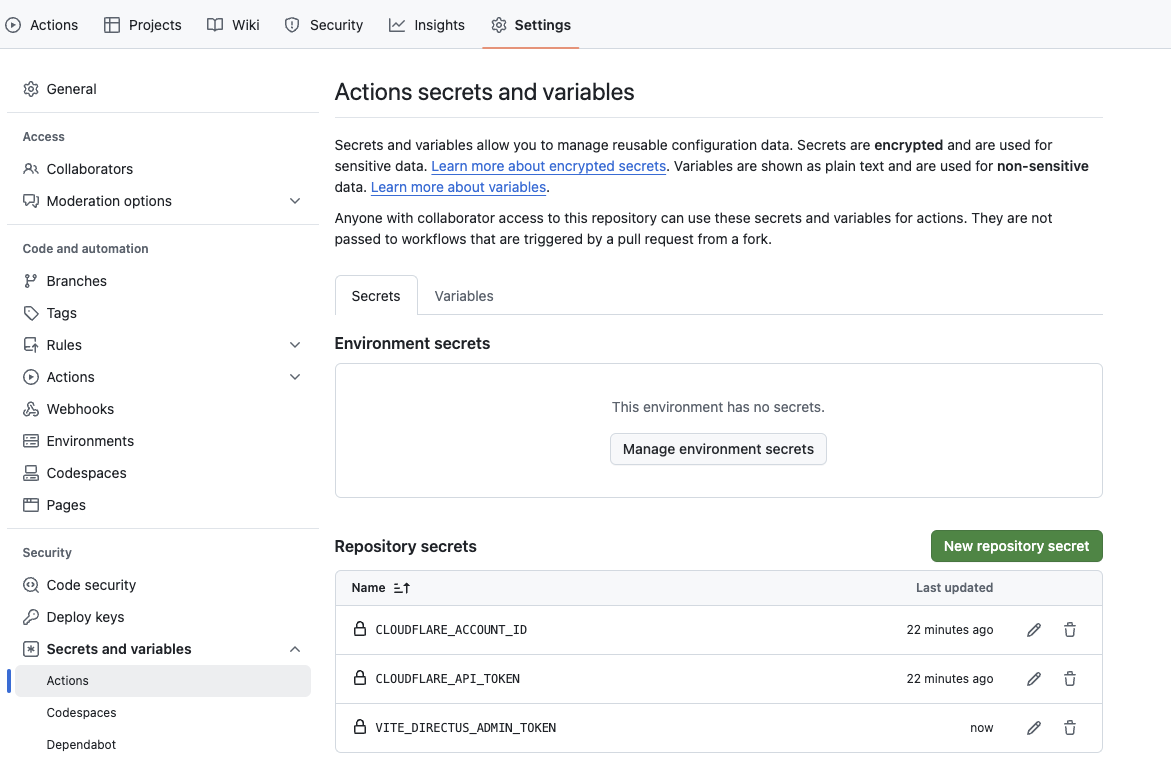
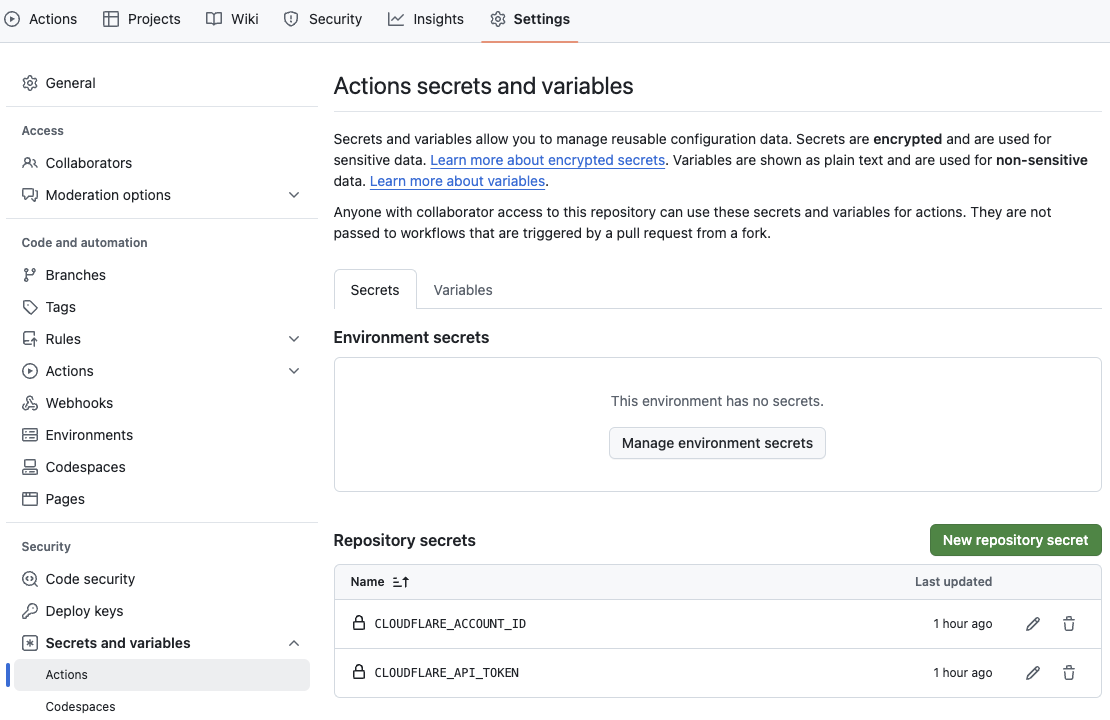
update

diff --git a/README.md b/README.md
@@ -24,22 +24,18 @@ pnpm develop
 
 #### Actions secrets and variables
 
-**variables**:
-
-- VITE_ASTRO_URL
-- VITE_ASTRO_AUTHOR
-- VITE_ASTRO_PROFILE
-- VITE_DIRECTUS_URL
-
-![Repository Variables](public/assets/repository-variables.png)
-
 **secrets**
 
 - CLOUDFLARE_ACCOUNT_ID
 - CLOUDFLARE_API_TOKEN
-- VITE_DIRECTUS_ADMIN_TOKEN
 
 ![Repository Secrets](public/assets/repository-secrets.png)
+
+### Workers & Pages
+
+### Settings > Variables and Secrets
+
+![ Workers & Pages > Variables and Secrets](public/assets/pages-settings.png)
 
 ## Dependencies
 
